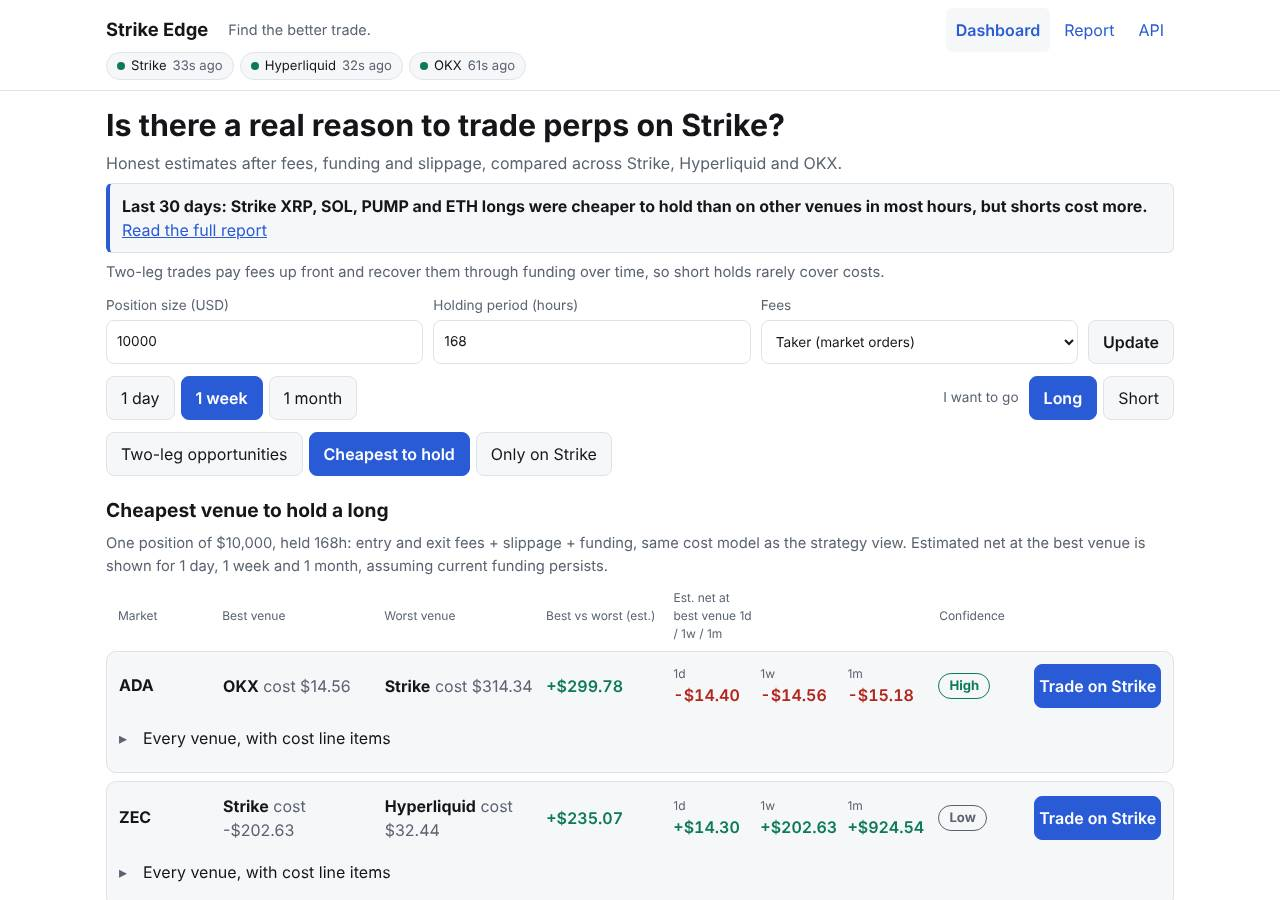
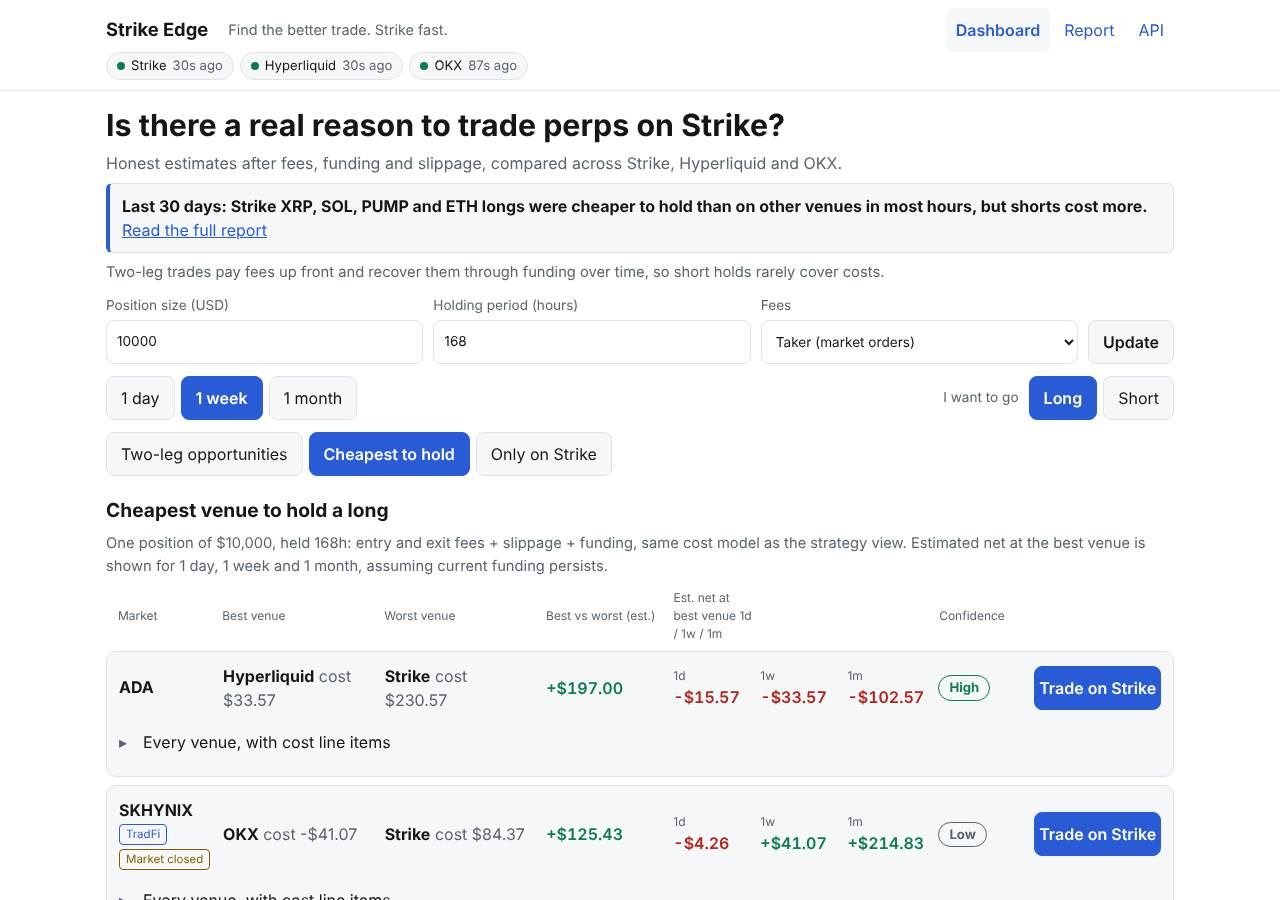
Change tagline to 'Find the better trade. Strike fast.' everywhere; regenerate screenshots

diff --git a/app/static/app.css b/app/static/app.css
@@ -189,5 +189,8 @@ details[open] > summary::before { transform: rotate(90deg); }
 .how-line { margin: 8px 0 0; font-size: 0.92rem; color: var(--muted); }
 .c-be { grid-area: be; }
 
-.tagline { display: none; color: var(--muted); font-size: 0.9rem; margin-right: auto; padding-left: 12px; }
-@media (min-width: 640px) { .tagline { display: inline; } .brand-row { flex-wrap: nowrap; } }
+.tagline { order: 3; width: 100%; color: var(--muted); font-size: 0.85rem; padding-bottom: 2px; }
+@media (min-width: 860px) {
+  .brand-row { flex-wrap: nowrap; }
+  .tagline { order: 0; width: auto; margin-right: auto; padding: 0 0 0 12px; font-size: 0.9rem; }
+}

diff --git a/app/templates/base.html b/app/templates/base.html
@@ -12,7 +12,7 @@
 <header class="top">
   <div class="wrap">
     <div class="brand-row">
-      <a class="brand" href="/">Strike Edge</a><span class="tagline">Find the better trade.</span>
+      <a class="brand" href="/">Strike Edge</a><span class="tagline">{{ tagline }}</span>
       <nav aria-label="Main">
         <a href="/" {% if page == 'home' %}aria-current="page"{% endif %}>Dashboard</a>
         <a href="/report" {% if page == 'report' %}aria-current="page"{% endif %}>Report</a>

diff --git a/app/templates/index.html b/app/templates/index.html
@@ -1,6 +1,6 @@
 {% extends "base.html" %}
 {% from "_macros.html" import opp_row, opp_head, badge_conf, market_badges, funding_table with context %}
-{% block title %}Strike Edge: find the better trade{% endblock %}
+{% block title %}Strike Edge: {{ tagline }}{% endblock %}
 {% block main %}
 
 <section class="intro">

diff --git a/tests/test_rename.py b/tests/test_rename.py
@@ -9,6 +9,8 @@ from tests.test_web import make
 
 ROOT = Path(__file__).resolve().parent.parent
 # Built at runtime so this file does not contain the old names it forbids.
+TAGLINE = "Find the better trade. Strike fast."  # the closing phrase is allowed only here
+PHRASE = "strike" + " fast"  # runtime-built so this file never contains it
 OLD = ["Strike" + " Fast", "strike" + "-fast", "strike" + "_fast", "strike" + "fast"]
 TEXT_SUFFIXES = {".py", ".md", ".html", ".css", ".js", ".txt", ".yaml", ".yml", ".toml", ".json"}
 WORSE = re.compile(r"strike is worse|sometimes strike|including when strike|even when strike", re.I)
@@ -27,7 +29,7 @@ def test_no_old_product_name_anywhere_in_the_repo():
     hits = []
     for p in repo_text_files():
         text = p.read_text(encoding="utf-8", errors="ignore")
-        low = text.lower()  # case-insensitive, so every capitalization is caught
+        low = text.replace(TAGLINE, "").lower()  # tagline is the one allowed use; rest is scanned
         hits += [f"{p.relative_to(ROOT)}: {old}" for old in OLD if old.lower() in low]
     assert not hits, hits
 
@@ -43,9 +45,9 @@ def test_no_worse_phrasing_in_marketing_copy():
 def test_site_uses_the_new_name_tagline_and_repo_link():
     _, c = make()
     html = c.get("/").text
-    assert "<title>Strike Edge: find the better trade</title>" in html
+    assert f"<title>Strike Edge: {TAGLINE}</title>" in html
     assert '<a class="brand" href="/">Strike Edge</a>' in html
-    assert "Find the better trade." in html
+    assert f'<span class="tagline">{TAGLINE}</span>' in html
     assert "Honest estimates after fees, funding and slippage" in html
     assert 'href="https://github.com/topunix/strike-edge"' in html
     assert "Strike Edge reads live funding" in html  # How it works
@@ -56,7 +58,7 @@ def test_openapi_llms_and_deploy_files_use_the_new_name():
     _, c = make()
     spec = c.get("/openapi.json").json()
     assert spec["info"]["title"] == "Strike Edge"
-    assert spec["info"]["description"].lstrip().startswith("Strike Edge makes Strike")
+    assert "Strike Edge makes Strike" in spec["info"]["description"]
     llms = c.get("/llms.txt").text
     assert (
         llms.startswith("# Strike Edge")
@@ -66,7 +68,7 @@ def test_openapi_llms_and_deploy_files_use_the_new_name():
     assert svc["name"] == "strike-edge"
     assert 'name = "strike-edge"' in (ROOT / "pyproject.toml").read_text()
     readme = (ROOT / "README.md").read_text()
-    assert readme.startswith("# Strike Edge\n") and "Strike Edge: find the better trade." in readme
+    assert readme.startswith("# Strike Edge\n") and f"*{TAGLINE}*" in readme
 
 
 def test_unfavorable_results_are_still_shown():
@@ -100,3 +102,40 @@ def test_logger_names_and_default_db_use_the_new_name():
     assert inspect.signature(main.create_app).parameters["db_path"].default == "strikeedge.db"
     readme = (ROOT / "README.md").read_text()
     assert "`strikeedge.db`" in readme and "| `DB_PATH` | `strikeedge.db` |" in readme
+
+
+OLD_TAGLINE = re.compile(
+    r"find the better trade(?!\. " + "Strike" + r" fast\.)", re.I
+)  # runtime-built
+
+
+def test_tagline_is_everywhere_and_the_old_one_is_gone():
+    from app.config import TAGLINE as CONFIG_TAGLINE
+
+    assert CONFIG_TAGLINE == TAGLINE
+    _, c = make()
+    spec = c.get("/openapi.json").json()
+    surfaces = {
+        "home header": c.get("/").text,
+        "report header": c.get("/report").text,
+        "hold header": c.get("/?tab=hold").text,
+        "llms.txt": c.get("/llms.txt").text,
+        "openapi description": spec["info"]["description"],
+        "README": (ROOT / "README.md").read_text(),
+        "DEMO": (ROOT / "docs" / "DEMO.md").read_text(),
+    }
+    for name, text in surfaces.items():
+        assert TAGLINE in text, name
+        assert not OLD_TAGLINE.search(text), f"old tagline still in {name}"
+    assert c.get("/llms.txt").text.splitlines()[0:3] == ["# Strike Edge", "", TAGLINE]
+    assert 'class="tagline"' in surfaces["report header"]
+
+
+def test_the_tagline_is_the_only_place_its_closing_phrase_appears():
+    allowed = re.compile(re.escape(TAGLINE))
+    for p in repo_text_files():
+        rest = allowed.sub("", p.read_text(encoding="utf-8", errors="ignore"))
+        assert PHRASE not in rest.lower(), p.relative_to(ROOT)
+    _, c = make()
+    for path in ("/", "/report", "/llms.txt"):
+        assert PHRASE not in allowed.sub("", c.get(path).text).lower(), path

diff --git a/scripts/check_layout.py b/scripts/check_layout.py
@@ -20,6 +20,7 @@ PAGES = {
     "report": "/report",
 }
 SHOT_PAGES = {"home", "home-hold", "report"}  # saved for the README; all pages are checked
+TAGLINE = "Find the better trade. Strike fast."  # must match app.config.TAGLINE
 WIDTHS = {"mobile": (375, 812), "desktop": (1280, 900)}
 
 
@@ -85,6 +86,9 @@ def run(base: str, out: Path, expect_charts: bool = True) -> list[str]:
                     except Exception:
                         problems.append(f"{pname}@{w}: charts did not render")
                     page.wait_for_timeout(300)
+                tag = page.locator(".tagline")
+                if not tag.is_visible() or tag.inner_text().strip() != TAGLINE:
+                    problems.append(f"{pname}@{w}: header tagline missing or wrong")
                 o = overflow(page)
                 if o["scrollWidth"] > o["clientWidth"] + 1 or o["wide"]:
                     problems.append(f"{pname}@{w}: horizontal overflow {o}")

diff --git a/app/main.py b/app/main.py
@@ -26,7 +26,7 @@ from app.adapters.hyperliquid import HyperliquidAdapter
 from app.adapters.okx import OkxAdapter
 from app.adapters.strike import StrikeAdapter
 from app.backfill import Backfiller
-from app.config import HYPERLIQUID, OKX, STRIKE, SYMBOL_MAP, Settings
+from app.config import HYPERLIQUID, OKX, STRIKE, SYMBOL_MAP, TAGLINE, Settings
 from app.db import Store
 from app.engine import Engine
 from app.middleware import CacheMiddleware, RateLimitMiddleware, SlidingWindowLimiter
@@ -41,7 +41,9 @@ ERROR_CODES = {
     422: "validation_error",
     429: "rate_limited",
 }
-DESCRIPTION = """
+DESCRIPTION = f"""
+**{TAGLINE}**
+
 Strike Edge makes Strike's competitiveness measurable: after funding, fees, spread and
 slippage, is there a real economic reason to trade on Strike instead of Hyperliquid or OKX?
 

diff --git a/app/web.py b/app/web.py
@@ -12,7 +12,7 @@ from fastapi.templating import Jinja2Templates
 
 from app import calc, report
 from app.api import Context, ctx_of, iso
-from app.config import ALL_VENUES, PRESETS_HOURS, STRIKE
+from app.config import ALL_VENUES, PRESETS_HOURS, STRIKE, TAGLINE
 from app.engine import Leg, OpportunityRow
 
 BASE = Path(__file__).parent
@@ -175,6 +175,7 @@ def common(request: Request, ctx: Context, page: str) -> dict:
     return {
         "request": request,
         "page": page,
+        "tagline": TAGLINE,
         "pills": venue_pills(ctx),
         "repo_url": REPO_URL,
         "restricted_url": RESTRICTED_URL,

diff --git a/app/llms.py b/app/llms.py
@@ -5,6 +5,7 @@ from __future__ import annotations
 import json
 from pathlib import Path
 
+from app.config import TAGLINE
 from app.schemas import DISCLAIMER, SCHEMA_VERSION
 
 EXAMPLES = Path(__file__).parent / "examples"
@@ -33,6 +34,8 @@ def captured_at() -> str:
 def llms_text(base_url: str) -> str:
     b = base_url
     return f"""# Strike Edge
+
+{TAGLINE}
 
 > Makes Strike's competitiveness measurable. After funding, fees, spread and slippage, is
 > there a real economic reason to trade perpetuals on Strike (strikefinance.org) instead of

diff --git a/app/config.py b/app/config.py
@@ -36,6 +36,10 @@ HYPERLIQUID = "hyperliquid"
 OKX = "okx"
 ALL_VENUES = (STRIKE, HYPERLIQUID, OKX)
 
+# Product tagline. Its closing phrase is allowed only inside this exact string; the rename
+# guard in tests/test_rename.py enforces that.
+TAGLINE = "Find the better trade. Strike fast."
+
 STRIKE_BASE = "https://api.strikefinance.org"
 HL_BASE = "https://api.hyperliquid.xyz"
 OKX_BASE = "https://www.okx.com"

diff --git a/docs/DEMO.md b/docs/DEMO.md
@@ -1,5 +1,7 @@
 # Strike Edge: 2 minute demo script
 
+Tagline: **Find the better trade. Strike fast.**
+
 Goal: a judge understands the tool in 10 seconds and trusts it by the end of 2 minutes. The honest framing is the selling point: estimates after fees, funding and slippage.
 
 ## Before you start (5 minutes ahead)
@@ -49,7 +51,7 @@ Optional terminal line:
 curl -s "https://YOUR-APP.onrender.com/api/v1/opportunities?hours=168&min_net_usd=25" | head -c 600
 ```
 
-Close: "Estimates only, not financial advice. The point is that Strike's competitiveness is now measurable."
+Close: "Estimates only, not financial advice. The point is that Strike's competitiveness is now measurable. Find the better trade. Strike fast."
 
 ## Mobile moment (10 seconds)
 

diff --git a/README.md b/README.md
@@ -1,6 +1,6 @@
 # Strike Edge
 
-*Strike Edge: find the better trade.*
+*Find the better trade. Strike fast.*
 
 After funding, fees, spread and slippage, is there a real economic reason to trade perpetuals on Strike instead of Hyperliquid or OKX? A web dashboard and JSON API that answer it with honest estimates after fees, funding and slippage.
 
